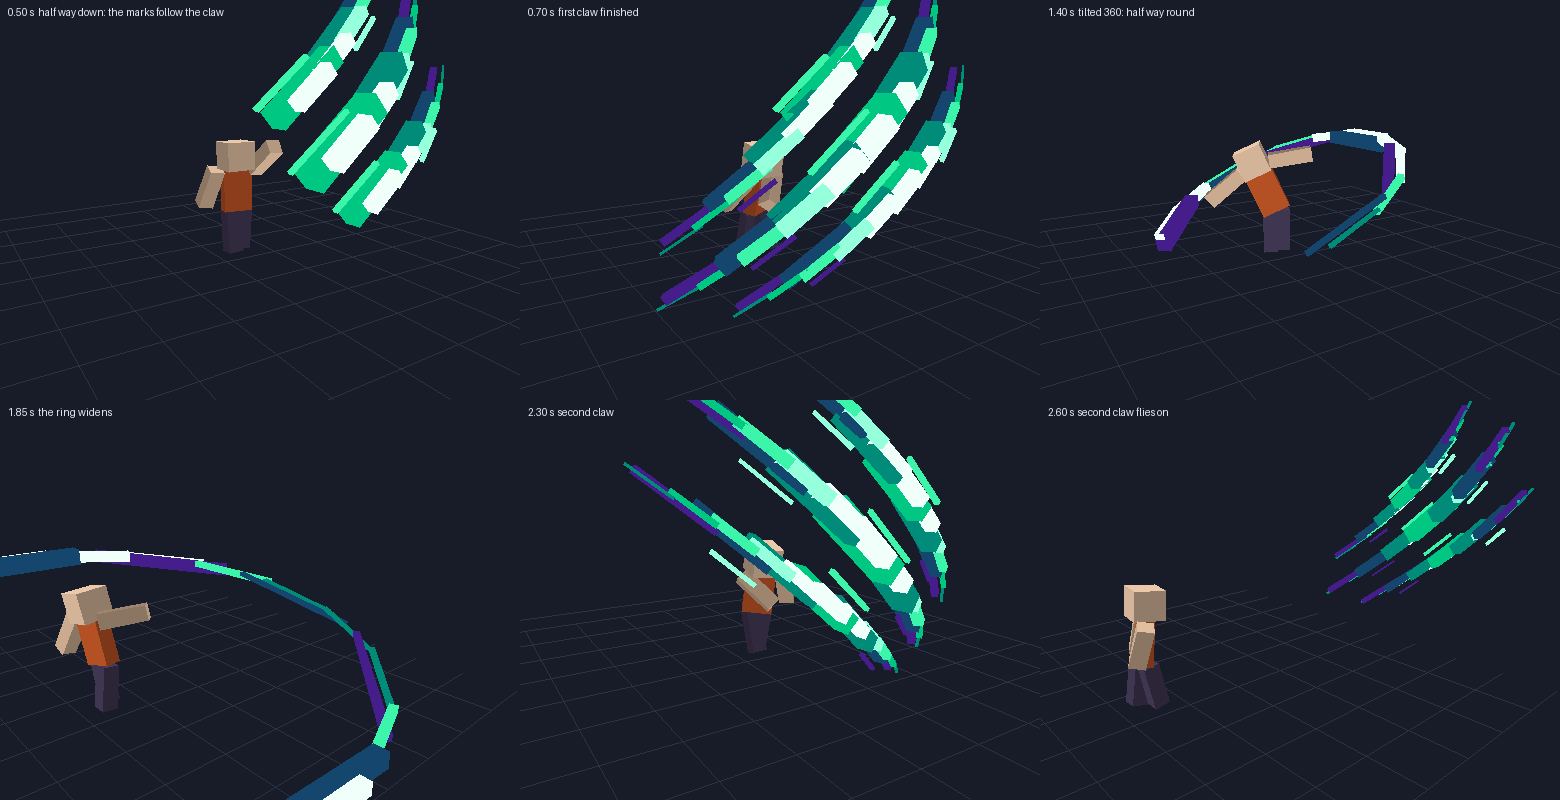
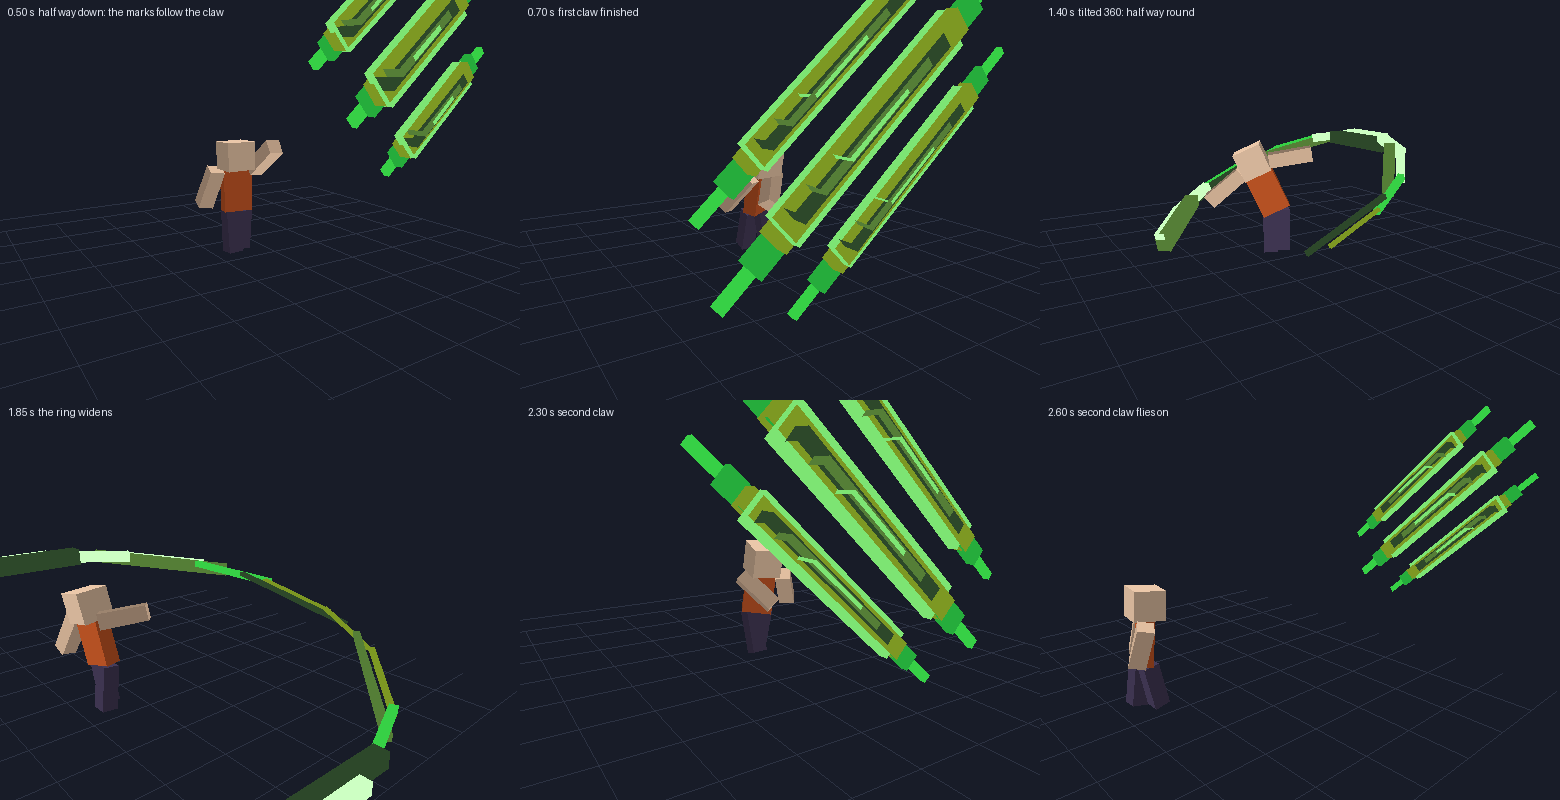
Dragon Claw: slashes rebuilt after the reference picture (straight, 7 nested stepped bars, green/olive/dark-green palette)

diff --git a/dragon_claw/world_code.js b/dragon_claw/world_code.js
@@ -22,13 +22,13 @@ var CLAW_CFG = {
 var CLAW_MAX_RANGE = 15
 
 var CLAW_COL = {
-  white: [240, 255, 250],
-  hot: [150, 255, 220],
-  core: [60, 245, 170],
-  mid: [0, 200, 130],
-  edge: [0, 140, 120],
-  deep: [20, 70, 110],
-  void: [70, 30, 140],
+  white: [205, 255, 195],
+  hot: [125, 228, 115],
+  core: [55, 208, 70],
+  mid: [38, 172, 60],
+  edge: [125, 152, 35],
+  deep: [45, 72, 42],
+  void: [85, 126, 55],
 }
 
 var CLAW_SND = {
@@ -75,32 +75,14 @@ var CLAW_NODES = ["TorsoNode", "HeadMesh", "ArmRightMesh", "ArmLeftMesh", "LegLe
 var CLAW_TURNS = ["TorsoNode", "LegLeftMesh", "LegRightMesh"]
 
 var CLAW_MESH = {
-  talon: [
-    [-1, 0.02, "edge"],
-    [-0.8, 0.045, "mid"],
-    [-0.6, 0.075, "core"],
-    [-0.4, 0.1, "hot"],
-    [-0.2, 0.12, "white"],
-    [0, 0.13, "white"],
-    [0.2, 0.12, "white"],
-    [0.4, 0.1, "hot"],
-    [0.6, 0.075, "core"],
-    [0.8, 0.045, "mid"],
-    [1, 0.02, "edge"],
-  ],
-  glow: [
-    [-0.85, 0.07, "void"],
-    [-0.57, 0.13, "deep"],
-    [-0.28, 0.175, "edge"],
-    [0, 0.2, "mid"],
-    [0.28, 0.175, "edge"],
-    [0.57, 0.13, "deep"],
-    [0.85, 0.07, "void"],
-  ],
-  shard: [
-    [-0.5, 0.03, "hot", 0.2, 0.5],
-    [0.1, 0.035, "core", -0.2, 0.7],
-    [0.6, 0.028, "void", 0.17, 0.45],
+  slash: [
+    [1, 0.09, 0.05, "core"],
+    [0.8, 0.2, 0.07, "mid"],
+    [0.6, 0.32, 0.09, "hot"],
+    [0.66, 0.2, 0.12, "edge"],
+    [0.52, 0.12, 0.15, "deep"],
+    [0.38, 0.07, 0.18, "void"],
+    [0.2, 0.035, 0.21, "hot"],
   ],
   mark: [
     [-0.6, 0.82, 0.85],
@@ -232,9 +214,9 @@ function clawFx(pos, vel, colA, colB, size, life, tex, n, spread) {
   })
 }
 
-function clawBox(c, key, thick, long, col, pos, t, resize) {
+function clawBox(c, key, thick, long, col, pos, t, resize, tall) {
   var id = c.m[key]
-  var box = { width: thick, height: thick, depth: long, diffuseColor: [0, 0, 0], emissiveColor: CLAW_COL[col], hideDist: CLAW_CFG.hideDist }
+  var box = { width: thick, height: tall || thick, depth: long, diffuseColor: [0, 0, 0], emissiveColor: CLAW_COL[col], hideDist: CLAW_CFG.hideDist }
   if (!id) {
     if (clawMeshes >= CLAW_CFG.maxMeshes) return
     id = api.attemptCreateMeshEntity("Box", box)
@@ -268,43 +250,30 @@ function clawFront(age) {
   return (1 - fly * fly) * Math.max(0, clawReach(false) - clawNear())
 }
 
-function clawPoint(c, side, arc, u, drift, back, off) {
+function clawPoint(c, side, arc, u, drift, back) {
   var m = CLAW_MESH.mark[arc]
   var S = clawNorm(clawAdd(clawAdd([0, 0, 0], c.R, -side), [0, 1, 0], -0.9))
   var W = clawNorm(clawAdd(clawAdd([0, 0, 0], c.R, 0.9 * side), [0, 1, 0], -1))
-  var x = u * m[1]
   var k = clawSize()
-  var at = clawAdd(c.from, [0, 1, 0], 0.55 + 1.1 * k)
-  at = clawAdd(at, S, x * 1.9 * k)
-  at = clawAdd(at, W, (m[0] * (1 - 0.22 * u) + (off || 0)) * k)
-  at = clawAdd(at, c.F, 0.9 + 0.6 * k + 0.7 * k * (1 - x * x) + drift - (back || 0))
-  var t = clawNorm(clawAdd(clawAdd([0, 0, 0], S, 1.9), c.F, -1.4 * x))
-  return { at: at, t: t }
+  var at = clawAdd(c.from, [0, 1, 0], 0.8 + 1.1 * k)
+  at = clawAdd(at, S, u * m[1] * 1.9 * k)
+  at = clawAdd(at, W, m[0] * k)
+  at = clawAdd(at, c.F, clawNear() + drift - (back || 0))
+  return { at: at, t: S }
 }
 
 function clawSlash(c, tag, side, age) {
-  var rows = CLAW_MESH.talon
-  var glow = CLAW_MESH.glow
+  var rows = CLAW_MESH.slash
   var part = Math.min(1, (age + 1) / CLAW_STEP.draw)
   var drift = clawFront(age)
   var k = clawSize()
   for (var arc = 0; arc < 3; arc++) {
     var m = CLAW_MESH.mark[arc]
-    var shown = Math.max(1, Math.round(rows.length * part))
-    for (var i = 0; i < shown; i++) {
-      var q = clawPoint(c, side, arc, rows[i][0], drift)
-      clawBox(c, tag + arc + "_" + i, rows[i][1] * m[2] * k, 0.5 * m[1] * k, rows[i][2], q.at, q.t)
+    var q = clawPoint(c, side, arc, part - 1, drift)
+    for (var i = 0; i < rows.length; i++) {
+      clawBox(c, tag + arc + "_" + i, rows[i][2] * k, rows[i][0] * part * m[1] * 3.8 * k, rows[i][3], q.at, q.t, age > 0 && age < CLAW_STEP.draw, rows[i][1] * m[2] * k)
     }
-    for (var g = 0; g < Math.round(glow.length * part); g++) {
-      var h = clawPoint(c, side, arc, glow[g][0], drift, 0.2)
-      clawBox(c, tag + arc + "g" + g, glow[g][1] * m[2] * k, 0.9 * m[1] * k, glow[g][2], h.at, h.t)
-    }
-    for (var e = 0; e < Math.round(CLAW_MESH.shard.length * part); e++) {
-      var sh = CLAW_MESH.shard[e]
-      var w = clawPoint(c, side, arc, sh[0], drift, 0.1, sh[3])
-      clawBox(c, tag + arc + "s" + e, sh[1] * k, sh[4] * m[1] * k, sh[2], w.at, w.t)
-    }
-    var tip = clawPoint(c, side, arc, rows[shown - 1][0], drift)
+    var tip = clawPoint(c, side, arc, 2 * part - 1, drift)
     if (age < CLAW_STEP.draw) clawFx(tip.at, [tip.t[0] * 4, tip.t[1] * 4, tip.t[2] * 4], "white", "hot", 0.3 * k, 0.5, "critical_hit", 4, 0.15)
     else if (age === CLAW_STEP.draw) clawFx(clawPoint(c, side, arc, 0, drift).at, null, "white", "core", 0.3 * k, 0.4, "glint", 3, 0.4 * k)
     else {
@@ -320,7 +289,7 @@ function clawBurst(c, side, age) {
   var drift = clawFront(age)
   for (var arc = 0; arc < 3; arc++) {
     for (var i = 0; i < 9; i += 2) {
-      var q = clawPoint(c, side, arc, CLAW_MESH.talon[i][0], drift)
+      var q = clawPoint(c, side, arc, i / 4 - 1, drift)
       clawFx(q.at, [c.F[0] * 2.5, 0.3, c.F[2] * 2.5], i % 4 ? "core" : "white", "edge", 0.34 * clawSize(), 0.55, i % 4 ? "glint" : "critical_hit", 2, 0.1)
     }
   }

diff --git a/dragon_claw/README.md b/dragon_claw/README.md
@@ -21,7 +21,7 @@ From other code: `dragonClaw(playerId)`.
 | Seconds | Player animation | Meshes and particles | Hit |
 |---|---|---|---|
 | 0.00–0.40 | Wind-up: right arm goes up and back | Claws appear on both hands (node meshes) | |
-| 0.40–0.70 | The slash: the arm comes down across the body, starting slowly and speeding up | Three slash marks, 4.8 blocks tall, grow from top to bottom together with the arm, a bit more every tick, with sparks at the tips | From half way down: what stands right in front |
+| 0.40–0.70 | The slash: the arm comes down across the body, starting slowly and speeding up | Three straight slashes, 6 blocks long, grow from the top end downward together with the arm, a bit longer every tick, with sparks at the tips | From half way down: what stands right in front |
 | 0.70–0.90 | Follow-through | The marks hang with a flash | |
 | 0.75–1.30 | Arms go out (from 0.90) | The marks shoot forward, fast at first and slowing down, as far as `range` (10 blocks) | Everything they pass, once |
 | 1.05–1.65 | Tilted 360: a full turn on the spot in four quarter steps, arms out, with the body leaning 25° to the side; the legs turn with the body but stay upright | A ring is drawn round the player, piece by piece, as they turn, tilted the same 25° | |
@@ -30,7 +30,7 @@ From other code: `dragonClaw(playerId)`.
 | 2.30–2.90 | Follow-through, then back to rest at 2.75 | These hang and fly forward too | Everything they pass, once |
 | 2.75–2.90 | Pose is reset | Claws are taken off | |
 
-At most 74 mesh entities at once and 93 api calls in one tick.
+At most 32 mesh entities at once and 91 api calls in one tick.
 
 The timing is in two tables (20 ticks a second). `CLAW_POSE`: the first number
 of each row is the tick that pose is reached. `CLAW_STEP`: when the marks and
@@ -91,23 +91,21 @@ themselves: send the changed file and the numbers can be carried over.
 | `nodeClaws` | Whether claws are attached to the hands |
 | `sounds`, `hideDist`, `maxCasts`, `maxMeshes` | As in Dragon Pulse |
 
-Colours are in `CLAW_COL` (white, core, edge, deep), sounds in `CLAW_SND`,
+Colours are in `CLAW_COL` (seven greens, listed below), sounds in `CLAW_SND`,
 timings in ticks in `CLAW_STEP`.
 
 ## Meshes (`CLAW_MESH`)
 
 | Group | Rows | What |
 |---|---|---|
-| `talon` | 11 | The bright core of one slash mark from end to end: place along it (-1 to 1), thickness, colour. White in the middle, then mint, green and teal to the tips |
-| `glow` | 7 | The wider, darker edge behind that core: teal in the middle, navy, violet at the ends |
-| `shard` | 3 | Thin splinters beside each mark: place along it, thickness, colour, sideways offset, length |
-| `mark` | 3 | The three marks of one claw: sideways offset, length, thickness. One claw is 3 × (11 + 7 + 3) = 63 meshes |
-| `ring` | 16 | The ring of the spin: thickness, colour. Every second piece gets a navy or violet piece behind it (24 meshes) |
-| `hand` | 11 | Node meshes on each arm: three talons of three pieces each (teal base, green middle, white tip bent forward), a violet knuckle plate, then a wide blade |
+| `slash` | 7 | The bars of one slash, nested on one centre line: length (1 = whole slash), width, thickness, colour. A long thin bright-green spine, then shorter and wider green and light-green bars, an olive one, a dark-green core and two thin inner strips. Each shorter bar is thicker, so it shows on both sides |
+| `mark` | 3 | The three slashes of one claw: sideways offset, length, width. One claw is 3 × 7 = 21 meshes |
+| `ring` | 16 | The ring of the spin: thickness, colour. Every second piece gets a darker piece behind it (24 meshes) |
+| `hand` | 11 | Node meshes on each arm: three talons of three pieces each (base, middle, tip bent forward), a knuckle plate, then a wide blade |
 
-Colours are in `CLAW_COL`: `white`, `hot` (mint), `core` (bright green), `mid`,
-`edge` (teal), `deep` (navy), `void` (violet). Change them there and every
-mesh and particle follows.
+Colours are in `CLAW_COL`: `white` (pale green), `hot` (light green), `core`
+(bright green), `mid` (green), `edge` (olive), `deep` (dark green), `void`
+(moss). Change them there and every mesh and particle follows.
 
 The blade is attached last on purpose. The documentation only shows one node
 mesh per body part; if the game keeps only the last one, the blade is what
